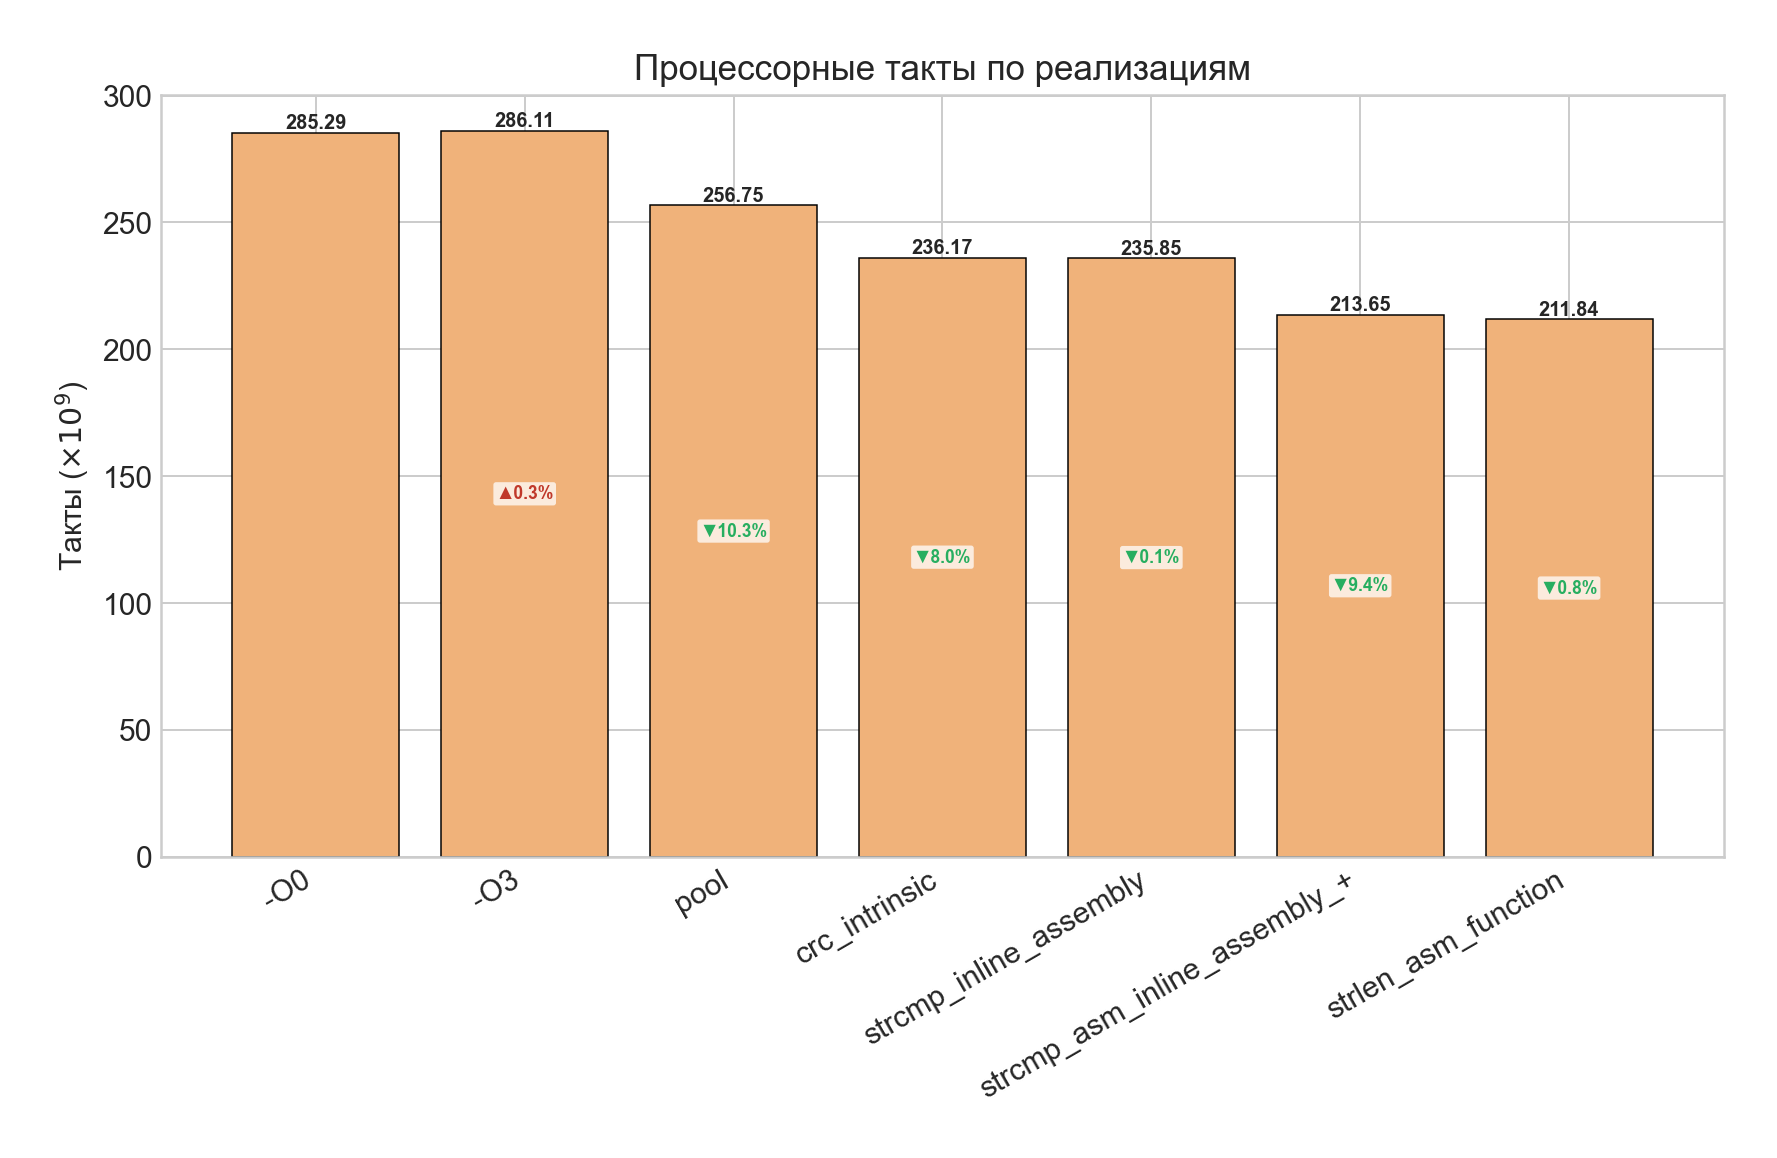
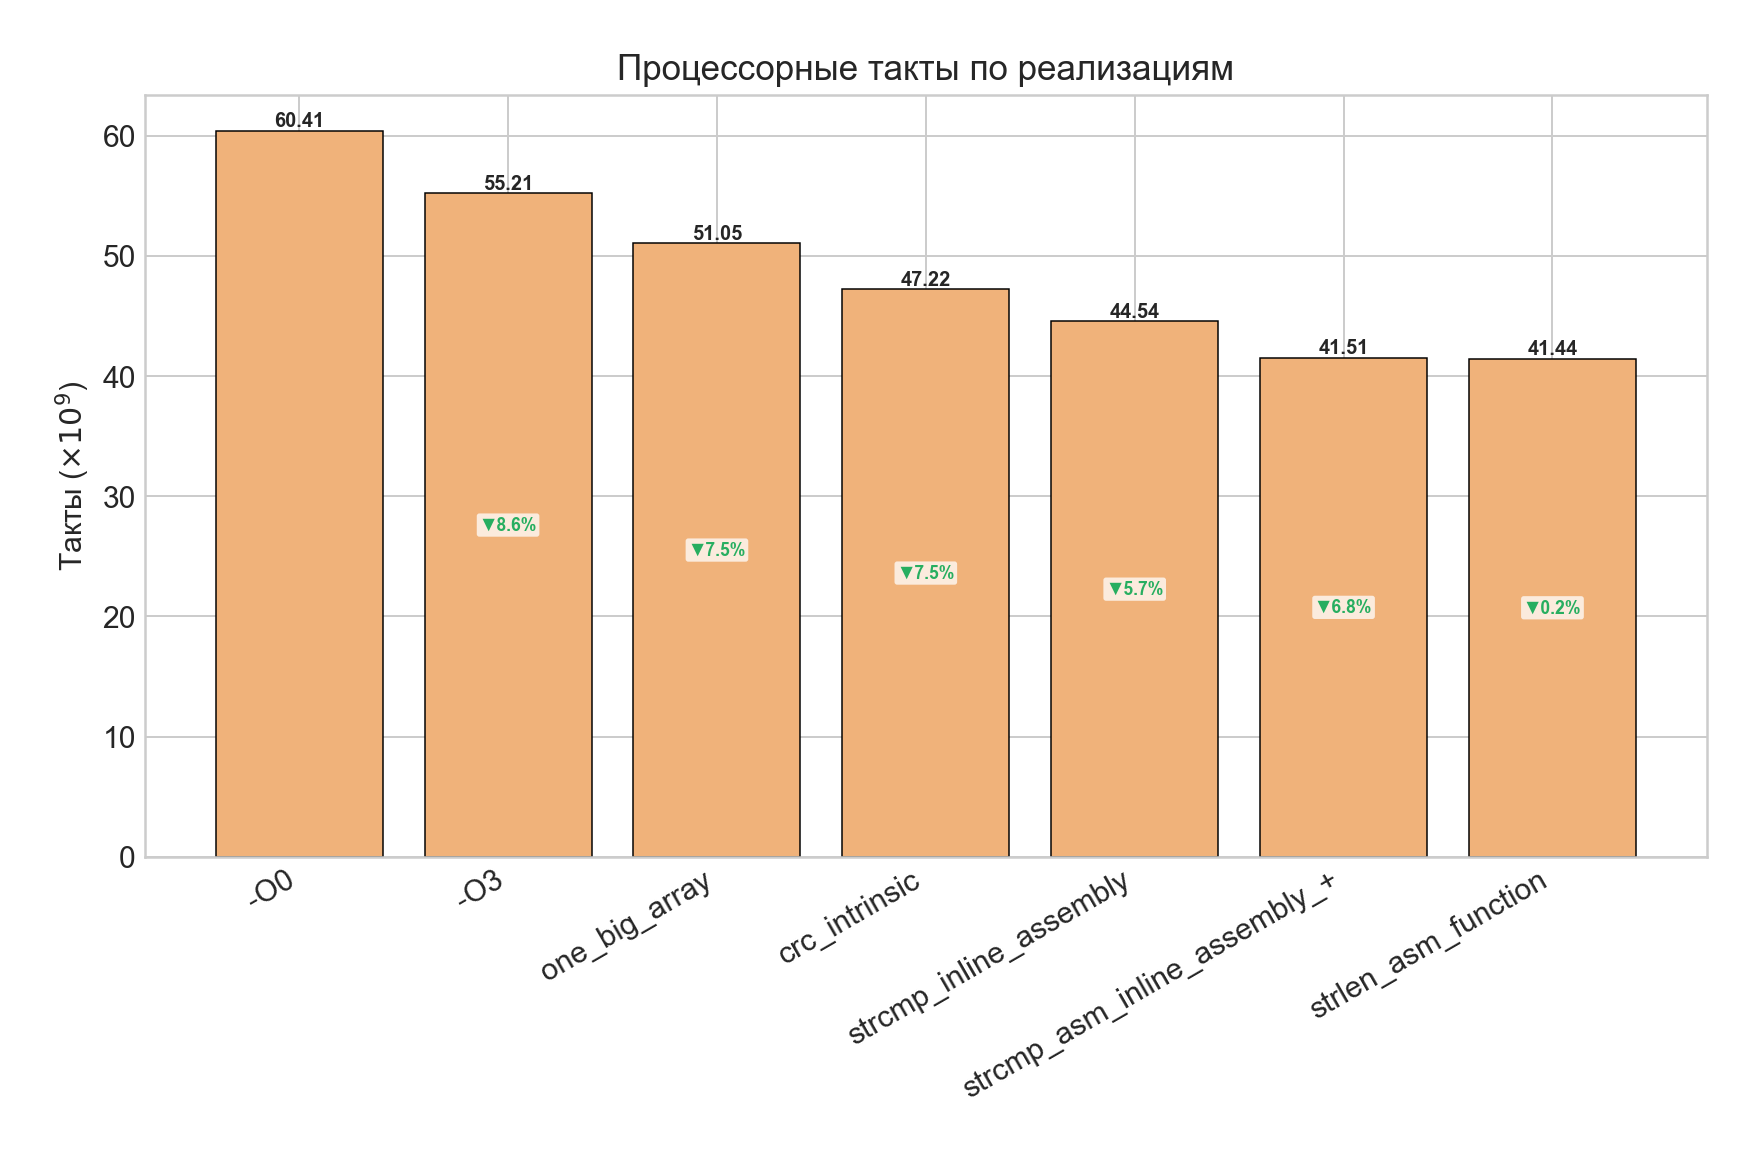
More correct time count

diff --git a/src/main.cpp b/src/main.cpp
@@ -19,29 +19,29 @@
 #include "CommonFunctions.h"
 #include "Config.h"
 
-void PrintChainStats(HashTable* hash_table) {
-    assert(hash_table);
-    int max_chain = 0, empty = 0;
-    unsigned long long total = 0;
+// void PrintChainStats(HashTable* hash_table) {
+//     assert(hash_table);
+//     int max_chain = 0, empty = 0;
+//     unsigned long long total = 0;
 
-    for (int i = 0; i < hash_table->capacity; i++) {
-        int len = 0;
-        Node* cur = hash_table->table[i];
-        while (cur) {
-            len++;
-            cur = cur->next;
-        }
+//     for (int i = 0; i < hash_table->capacity; i++) {
+//         int len = 0;
+//         Node* cur = hash_table->table[i];
+//         while (cur) {
+//             len++;
+//             cur = cur->next;
+//         }
 
-        if (len == 0) empty++;
-        if (len > max_chain) max_chain = len;
+//         if (len == 0) empty++;
+//         if (len > max_chain) max_chain = len;
 
-        total += len;
-    }
+//         total += len;
+//     }
 
-    printf("buckets: %d, empty: %d, max chain: %d, avg: %.2f\n",
-        hash_table->capacity, empty, max_chain,
-        (double)total / hash_table->capacity);
-}
+//     printf("buckets: %d, empty: %d, max chain: %d, avg: %.2f\n",
+//         hash_table->capacity, empty, max_chain,
+//         (double)total / hash_table->capacity);
+// }
 
 static float MeasureSearch(char** keys, char** queries, int* sink, unsigned long long *ticks);
 
@@ -82,19 +82,29 @@ static float MeasureSearch(char** keys, char** queries, int* sink, unsigned long
         Insert(hash_table, keys[i], CountHashcrc32);
     }
 
-    PrintChainStats(hash_table);
+    // PrintChainStats(hash_table);
+    unsigned long long ticks_total = 0;
+    double time_total = 0;
+    const int RUNS = 5;
 
-    unsigned long long ticks_start = __rdtsc();
-    clock_t time_start = clock();
-    for (int i = 0; i < 5; i++) {
+    for (int run = 0; run < RUNS + 1; run++) {
+        unsigned long long ticks_start = __rdtsc();
+        clock_t time_start = clock();
+
         for (int i = 0; i < NUMBER_QUERIES; i++) {
             *sink += Contains(hash_table, queries[i], CountHashcrc32);
         }
+
+        clock_t time_end = clock();
+        unsigned long long ticks_end = __rdtsc();
+
+        if (run == 0) continue;
+        ticks_total += (ticks_end - ticks_start);
+        time_total += GetTimeInMSec(time_start, time_end);
     }
-    clock_t time_end = clock();
-    unsigned long long ticks_end = __rdtsc();
-    *ticks = ticks_end - ticks_start;
+
+    *ticks = ticks_total / RUNS;
 
     DestroyTable(hash_table);
-    return GetTimeInMSec(time_start, time_end);
+    return time_total / RUNS;
 }

diff --git a/src/ChainTable/ChainTablePool.cpp b/src/ChainTable/ChainTablePool.cpp
@@ -11,14 +11,6 @@
 #include "Config.h"
 
 #ifdef _DSIMD
-// static inline int simd_strcmp_32(const char* a, const char* b) {
-//     __m256i va = _mm256_load_si256((const __m256i*)a);
-//     __m256i vb = _mm256_load_si256((const __m256i*)b);
-//     __m256i cmp = _mm256_cmpeq_epi8(va, vb);
-    
-//     return _mm256_movemask_epi8(cmp) == (int)0xFFFFFFFF;
-// }
-//extern "C" int simd_strcmp_32(const char*, const char*);
 static inline int simd_strcmp_32(const char* a, const char* b) {
     int mask = 0;
     __asm__ volatile (
@@ -135,9 +127,13 @@ void Insert(HashTable* hash_table, const char* value, HashFunc Hash) {
 
     while (cur) {
 #ifdef _DSIMD
-        if (cur->value[0] == value[0] && simd_strcmp_32(cur->value, value)) return;
-#else 
-        if (strcmp(cur->value, value) == 0) return;
+        #ifdef _DCHECK_FIRST_CHAR
+            if (cur->value[0] == value[0] && simd_strcmp_32(cur->value, value)) return;
+        #else
+            if (simd_strcmp_32(cur->value, value)) return;
+        #endif
+#else
+            if (strcmp(cur->value, value) == 0) return;
 #endif
         cur = cur->next;
     }
@@ -164,9 +160,13 @@ void Delete(HashTable* hash_table, const char* value, HashFunc Hash) {
 
     while (cur) {
 #ifdef _DSIMD
-        if (cur->value[0] == value[0] && simd_strcmp_32(cur->value, value)) {
-#else 
-        if (strcmp(cur->value, value) == 0) {
+        #ifdef _DCHECK_FIRST_CHAR
+            if (cur->value[0] == value[0] && simd_strcmp_32(cur->value, value)) {
+        #else
+            if (simd_strcmp_32(cur->value, value)) {
+        #endif
+#else
+            if (strcmp(cur->value, value) == 0) {
 #endif
             if (prev) {
                 prev->next = cur->next;
@@ -194,8 +194,12 @@ int Contains(HashTable* hash_table, const char* value, HashFunc Hash) {
 
     while (cur) {
 #ifdef _DSIMD
-        if (cur->value[0] == value[0] && simd_strcmp_32(cur->value, value)) {
-#else 
+        #ifdef _DCHECK_FIRST_CHAR
+            if (cur->value[0] == value[0] && simd_strcmp_32(cur->value, value)) {
+        #else
+            if (simd_strcmp_32(cur->value, value)) {
+        #endif
+#else
         if (strcmp(cur->value, value) == 0) {
 #endif
             return 1;
